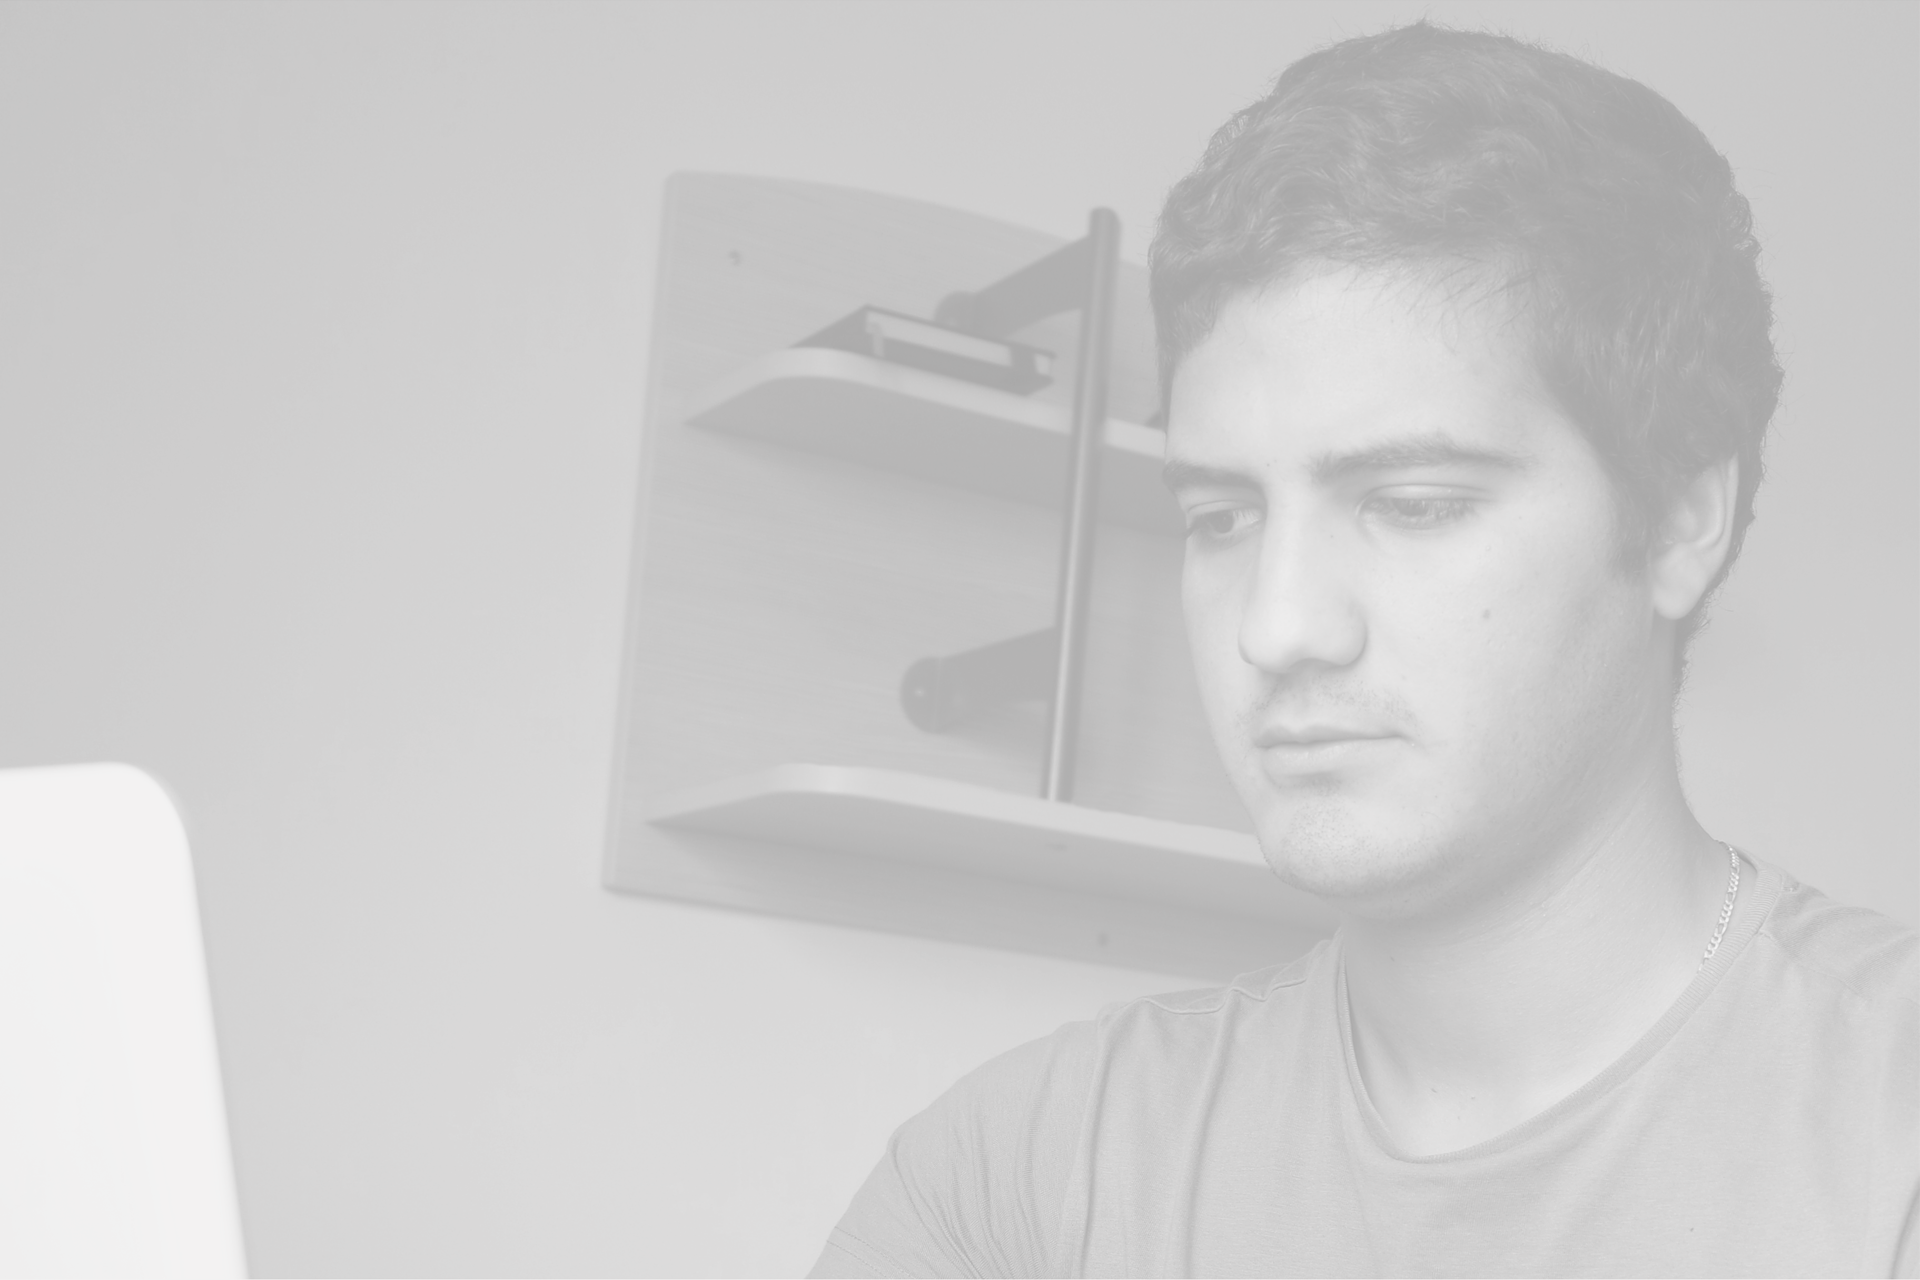
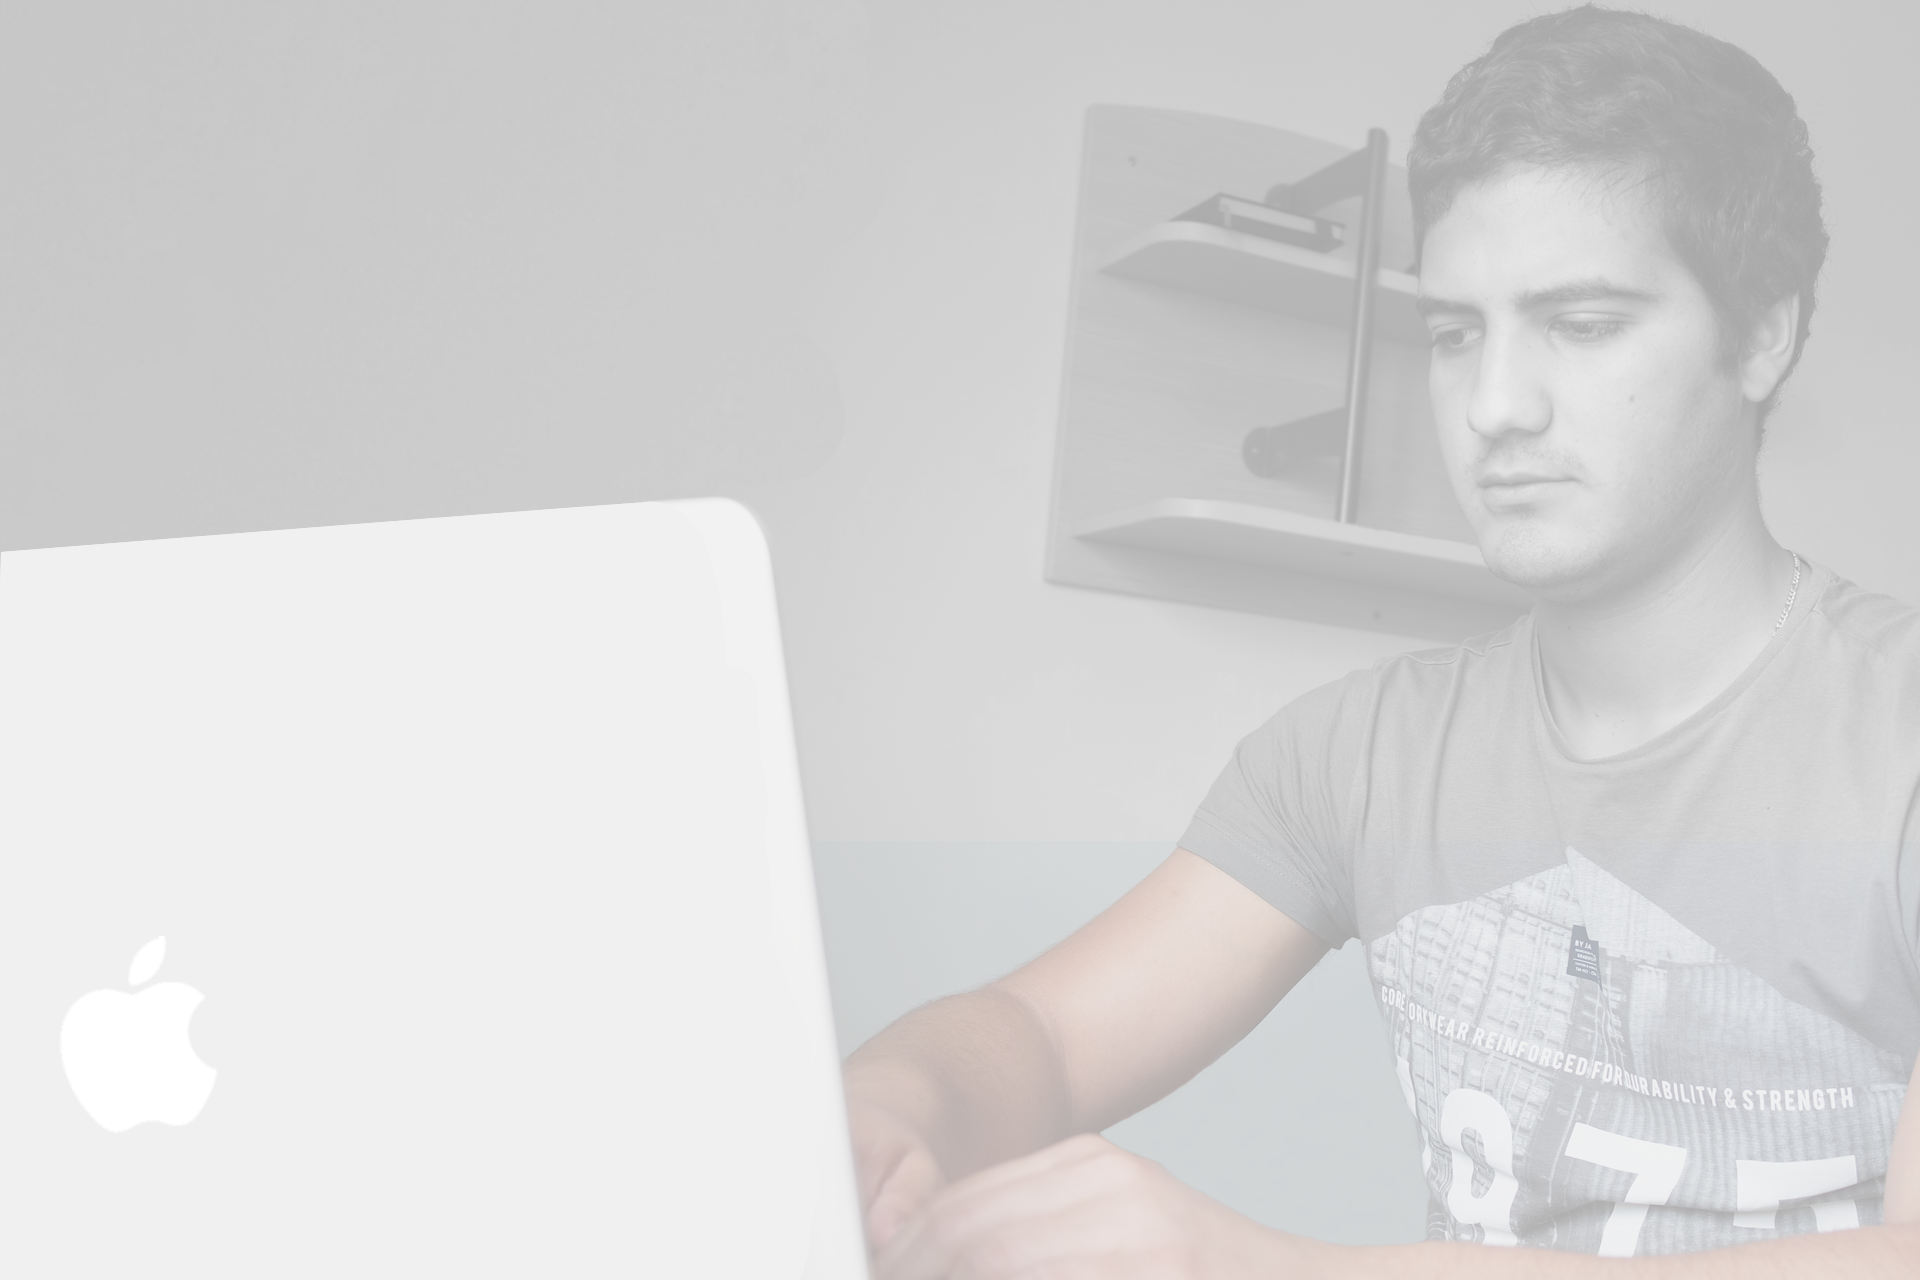
fix header background image

diff --git a/assets/css/styles.css b/assets/css/styles.css
@@ -225,7 +225,7 @@ a:hover {
 
 **********************************************************************/
 #head {
-  background: #f4f4f4 url(../images/bg_anasse.png) top right;
+  background: #f4f4f4 url(../images/bg_head.png) top right;
   background-size: cover;
   color: #7C7C7C;
   padding: 30px 0 35px 0;
